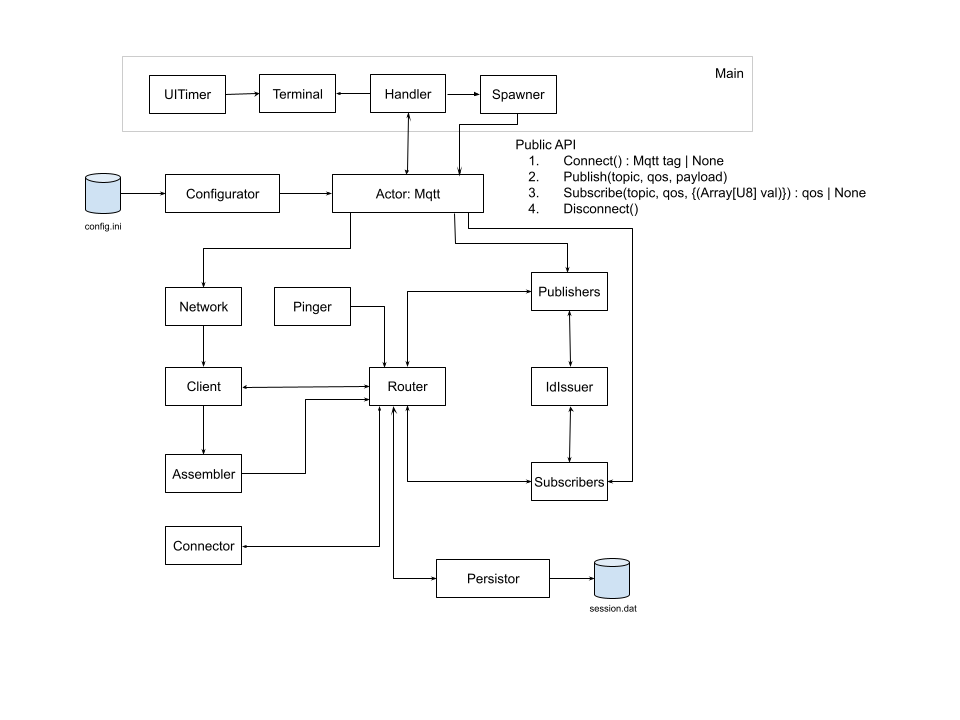
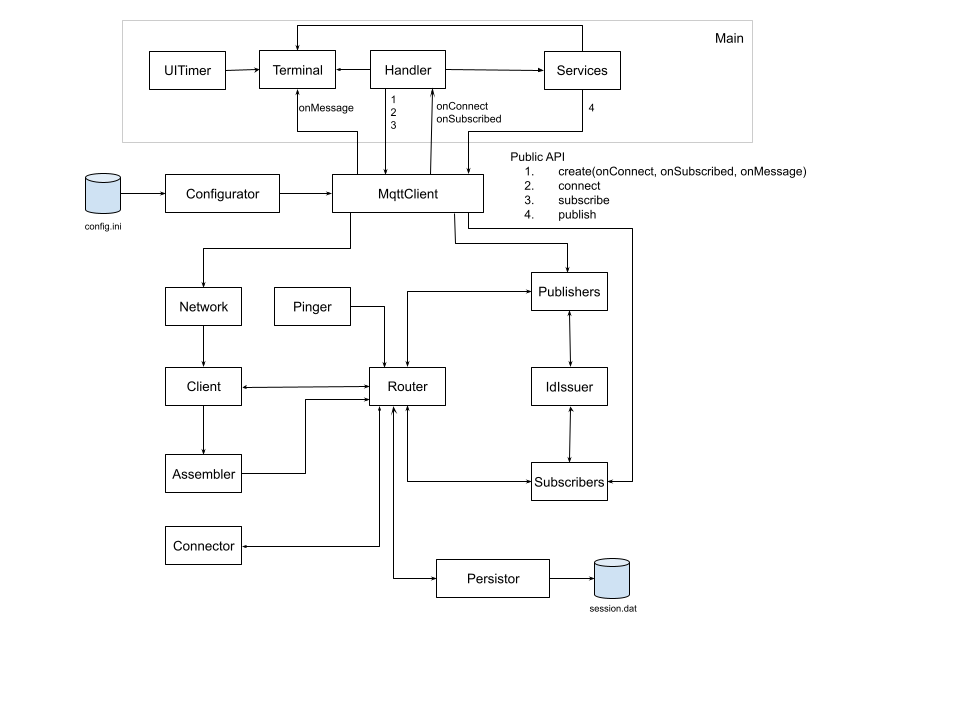
Diagrams

diff --git a/README.md b/README.md
@@ -95,37 +95,8 @@ The architecture of the R.1 is highly decomposed:
 This is probably not the most effective approach for performance so expect to see components
 being consolidated later. The main purpose of each of the packages (in order of typical programe flow) is as follows.
 
-![Architecture](assets/Release01.jpg)
+![Architecture](assets/Release02.png)
 
-## Architecture ## 
-
-### Main ###
-
-Uses a configurator actor to reads the configuration from config.ini. Passes the config to
-the other actors it creates and then starts the terminal handler. Actors are stored in a
-Registrar so then can be disposed later - when main's onExit behaviour is called.
-
-### Network ###
-
-Connects to the server in the config.ini file (or localhost:1883 a default). Creates a Client as a callback for events.
-
-### Client ###
-
-The TCP class that tells Router when the network is connected (not the MQTT broker yet, just the TCP connection). The Client received method is called when data is available and send this
-data to Assembler.
-
-### Assembler ###
-
-TCP knows nothing of MQTT messages so we may receive multiple MQTT messages in a TCP packet,
-or fractions of a message, or any combination thereof. Assembler is responsible for assembling
-valid MQTT messages from these TCP packets. If you were expecting sections of the code to be
-written in assembler, I am sorry to disappoint...
-
-### Router ###
-
-The hub of the library - carries out minimal interpretation of the incomming message and send
-it to the appropriate handlers. Keeps track of the incomming and outgoing message ids as acks
-are only tied to messages by id.
 
 ### Main ###
 
@@ -154,3 +125,7 @@ written in assembler, I am sorry to disappoint...
 The hub of the library - carries out minimal interpretation of the incomming message and send
 it to the appropriate handlers. Keeps track of the incomming and outgoing message ids as acks
 are only tied to messages by id.
+
+## Operation ##
+
+![Operation](assets/Interface.png)
